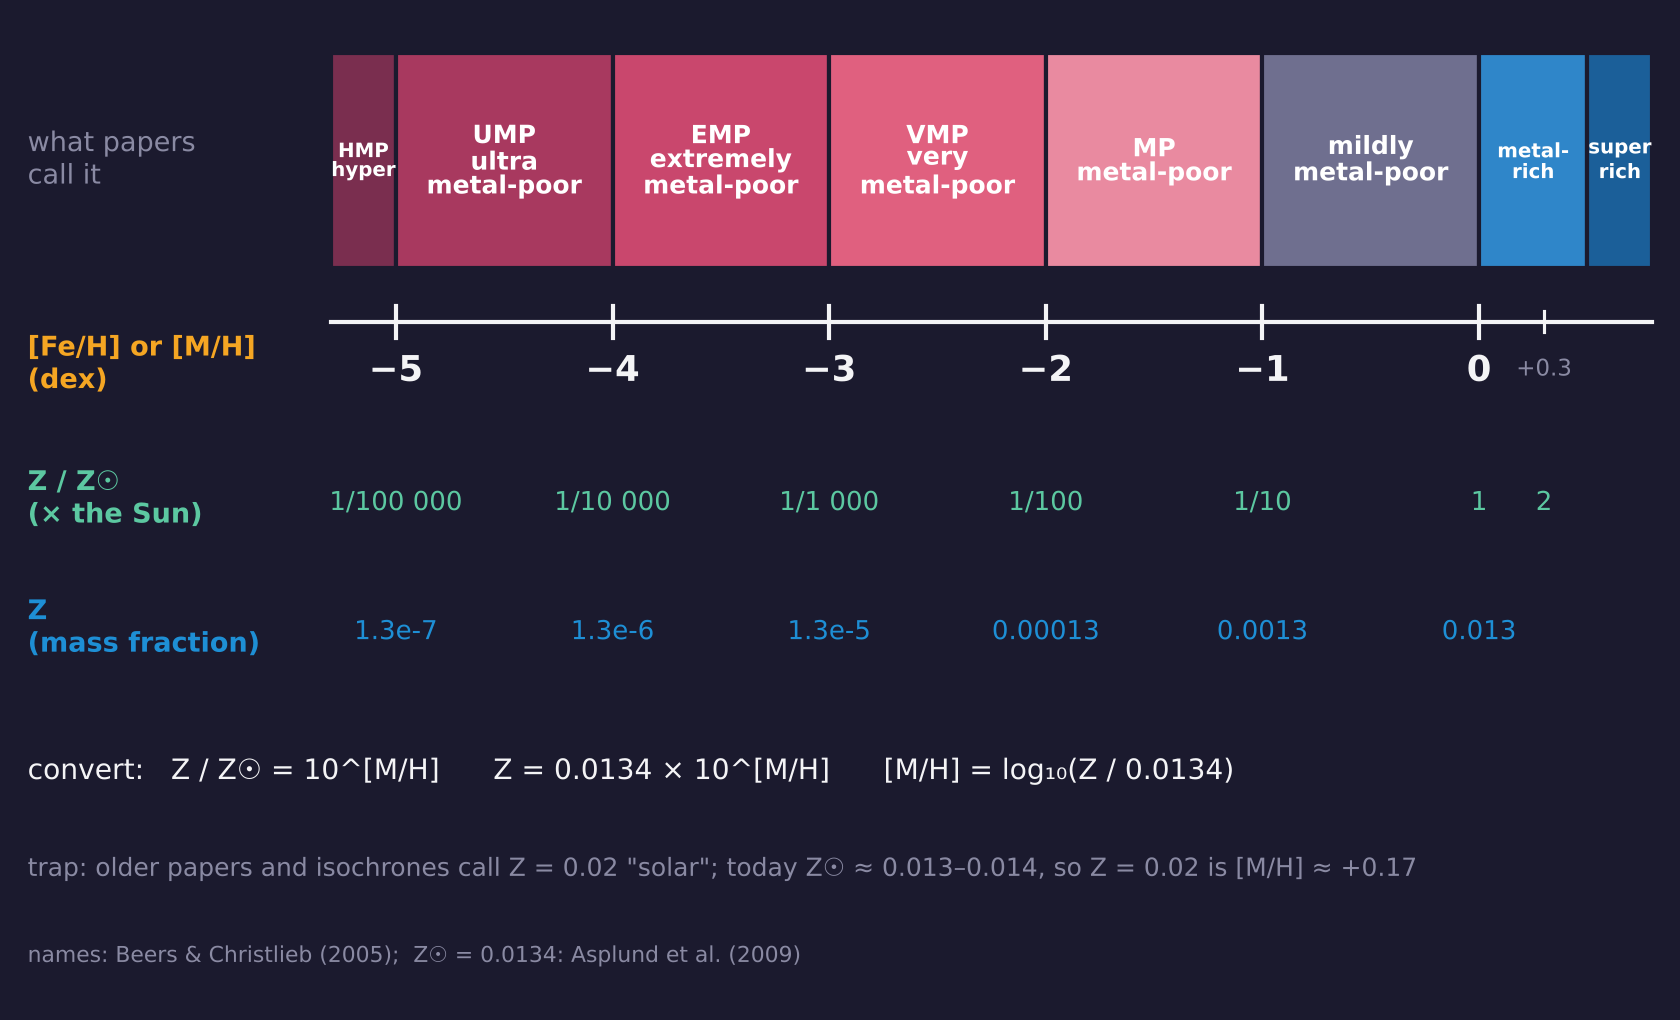
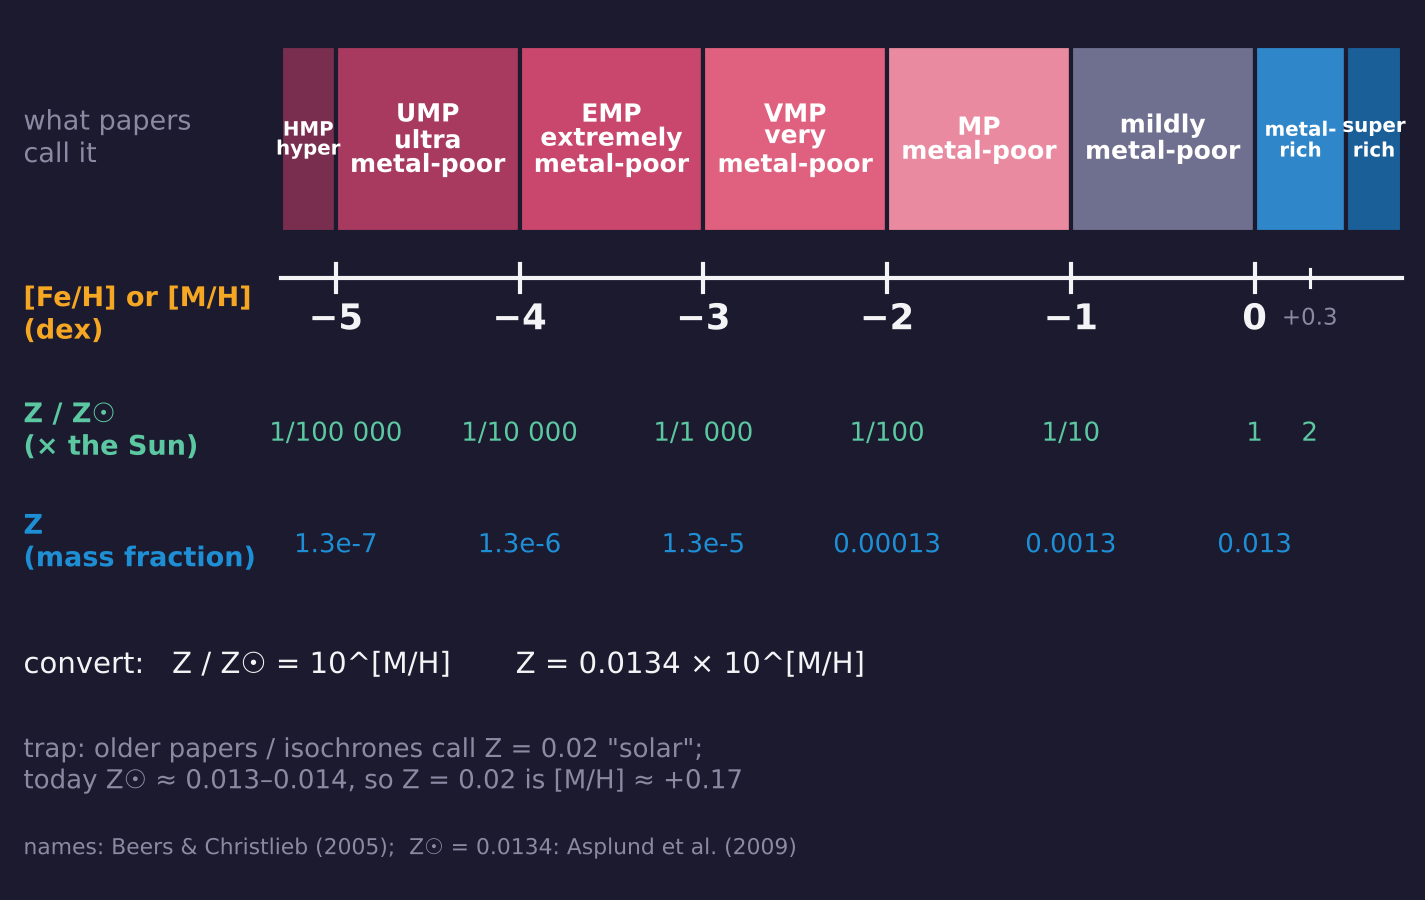
Metal scale: larger type
Claude-Session: https://claude.ai/code/session_01WBTdaRnm2ChJRsu6zYFdBL

diff --git a/figures/make_metal_scale.py b/figures/make_metal_scale.py
@@ -35,8 +35,8 @@ def draw(quiz=False):
     plt.rcdefaults()
     mpl.rcParams.update({"figure.facecolor": BG, "savefig.facecolor": BG, "text.color": FG, "font.family": "DejaVu Sans"})
     top = 12.2 if quiz else 9.3
-    fig = plt.figure(figsize=(11.2, 6.8 if not quiz else 7.6)); ax = fig.add_axes([0.01, 0.02, 0.98, 0.96])
-    ax.set_xlim(-6.75, 0.85); ax.set_ylim(0.2, top); ax.axis("off")
+    fig = plt.figure(figsize=(9.5, 6.0 if not quiz else 6.7)); ax = fig.add_axes([0.01, 0.02, 0.98, 0.96])
+    ax.set_xlim(-6.75, 0.85); ax.set_ylim(0.0, top); ax.axis("off")
 
     # name bands
     for lo, hi, name, c in BANDS:
@@ -63,10 +63,10 @@ def draw(quiz=False):
     ax.text(-6.7, 3.65, "Z\n(mass fraction)", fontsize=13, color=BLUE, va="center", fontweight="bold")
 
     # how to convert + trap
-    ax.text(-6.7, 2.25, "convert:   Z / Z☉ = 10^[M/H]      Z = 0.0134 × 10^[M/H]      [M/H] = log₁₀(Z / 0.0134)", fontsize=13.5, color=FG)
-    ax.text(-6.7, 1.35, "trap: older papers and isochrones call Z = 0.02 \"solar\"; today Z☉ ≈ 0.013–0.014, so Z = 0.02 is [M/H] ≈ +0.17",
-            fontsize=12, color=GREY)
-    ax.text(-6.7, 0.55, "names: Beers & Christlieb (2005);  Z☉ = 0.0134: Asplund et al. (2009)", fontsize=10.5, color=GREY)
+    ax.text(-6.7, 2.25, "convert:   Z / Z☉ = 10^[M/H]       Z = 0.0134 × 10^[M/H]", fontsize=14, color=FG)
+    ax.text(-6.7, 1.25, "trap: older papers / isochrones call Z = 0.02 \"solar\";\ntoday Z☉ ≈ 0.013–0.014, so Z = 0.02 is [M/H] ≈ +0.17",
+            fontsize=12.5, color=GREY, va="center")
+    ax.text(-6.7, 0.3, "names: Beers & Christlieb (2005);  Z☉ = 0.0134: Asplund et al. (2009)", fontsize=10.5, color=GREY)
 
     if quiz:
         # (x on the scale, letter, value, colour, letter x, letter y)
